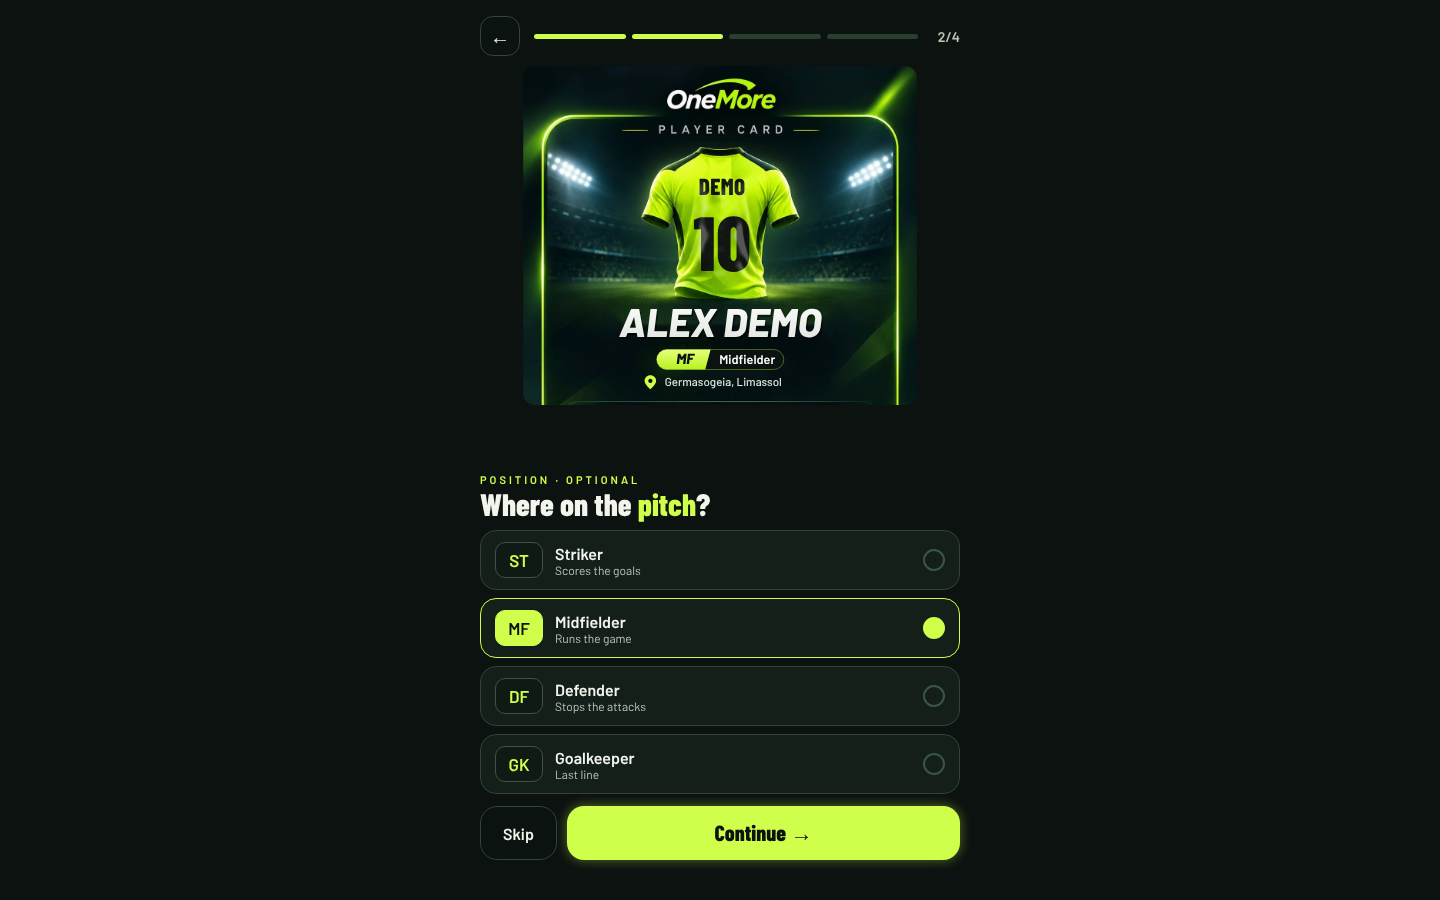
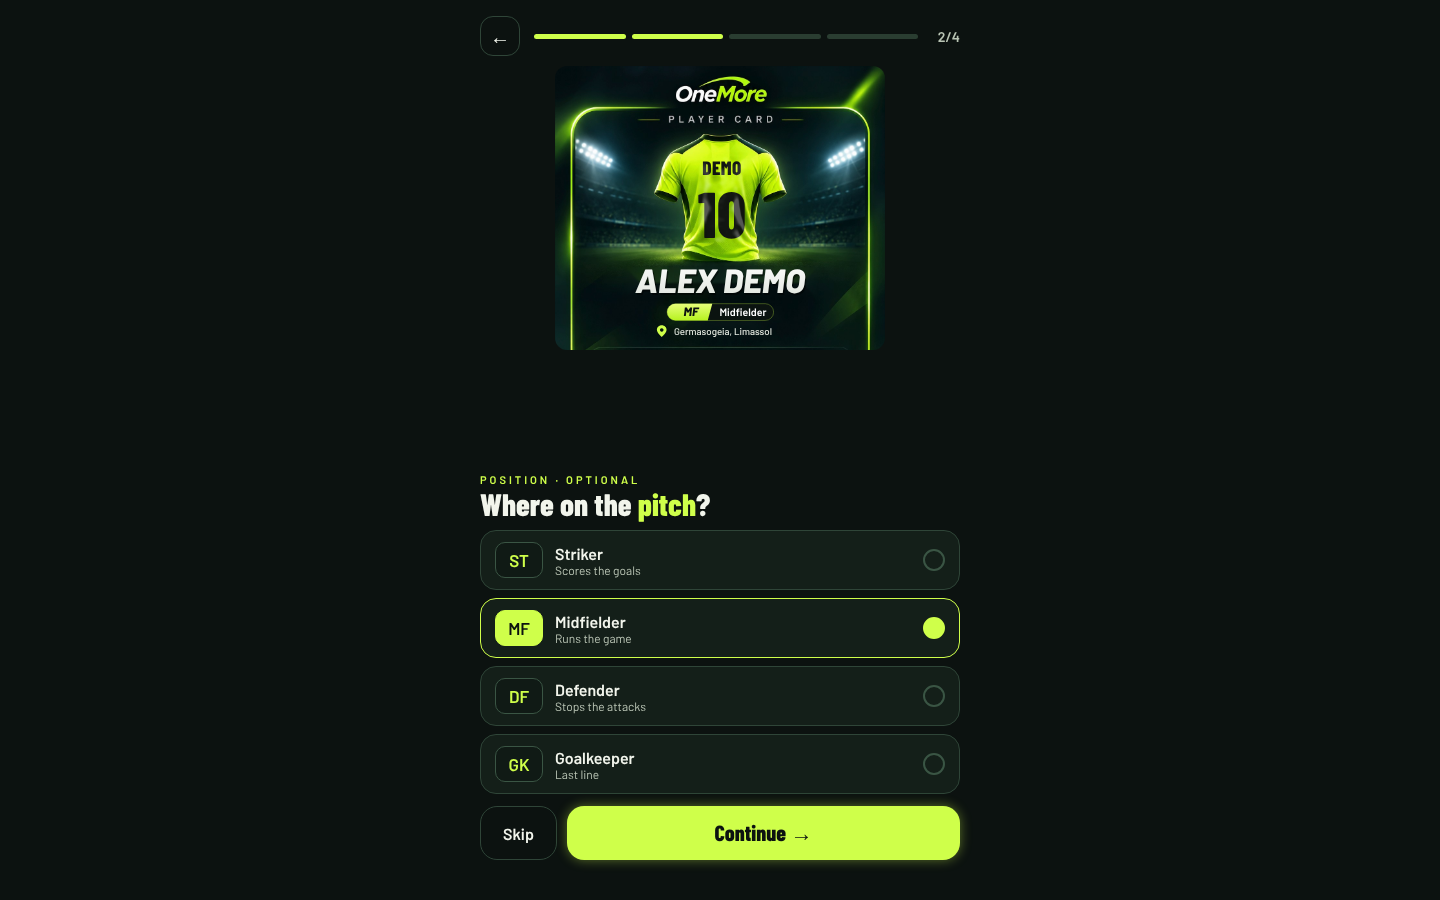
fix: onboarding steps fit one screen with no scrolling
Area chips wrap again instead of scrolling sideways; the card slot reserves
room for the city with the most area rows so every step, city and screen size
fits without scrolling and the footer keeps its bottom margin.

Claude-Session: https://claude.ai/code/session_018Y2DJcCxNRruUAufNUxVdN

Changed region(s): [[0.3438, 0.0622, 0.6562, 0.4667]]

diff --git a/src/features/profile/PlayerOnboarding.tsx b/src/features/profile/PlayerOnboarding.tsx
@@ -71,7 +71,11 @@ const headerHeight = 40;
 const footerHeight = 54;
 const columnGap = 10;
 /** Room kept for the controls of the tallest step; the card takes the rest. */
-const controlsReserve = 250;
+const minControlsReserve = 250;
+/** Step one without its area chips: name, shirt number, city, labels and gaps. */
+const firstStepControls = 212;
+/** One row of wrapped area chips and the gap under it. */
+const areaRowHeight = 38;
 const minSlotHeight = 190;
 const compactSlotHeight = 72;
 
@@ -108,6 +112,29 @@ export function PlayerOnboarding() {
   );
   const locationOptions = useMemo(() => filterCityAreaOptions(cities, areas), [cities, areas]);
   const visibleAreas = locationOptions.areas.filter((area) => area.city_id === form.cityId);
+  // The first step is the tallest, and its area chips wrap onto more rows for some cities.
+  // Reserving room for the city with the most rows keeps the card slot, and so every step,
+  // the same size whichever city is chosen, and keeps all of it on one screen.
+  const areaRowsMost = useMemo(() => {
+    const rowWidth = Math.min(width - (width < 400 ? 16 : 20) * 2, 480);
+    const charWidth = locale === 'el' ? 7.6 : 7.1;
+    let most = 1;
+    for (const item of locationOptions.cities) {
+      let rows = 1;
+      let used = 0;
+      for (const place of locationOptions.areas.filter((area) => area.city_id === item.id)) {
+        const chip = (locale === 'en' ? place.name_en : place.name_el).length * charWidth + 26;
+        if (used > 0 && used + 6 + chip > rowWidth) {
+          rows += 1;
+          used = chip;
+        } else {
+          used += (used > 0 ? 6 : 0) + chip;
+        }
+      }
+      most = Math.max(most, rows);
+    }
+    return most;
+  }, [locale, locationOptions, width]);
   const city = cities.find((item) => item.id === form.cityId);
   const area = areas.find((item) => item.id === form.areaId);
   const done = step > stepCount - 1;
@@ -291,6 +318,10 @@ export function PlayerOnboarding() {
   // is what is left after the header, the footer and the tallest set of controls.
   const columnWidth = Math.min(width - horizontalPad * 2, 480);
   const columnHeight = measuredColumnHeight || windowHeight - topPad - bottomPad;
+  const controlsReserve = Math.max(
+    minControlsReserve,
+    firstStepControls + areaRowsMost * areaRowHeight,
+  );
   const slotHeight = keyboardVisible
     ? compactSlotHeight
     : Math.max(
@@ -572,14 +603,10 @@ export function PlayerOnboarding() {
                       {visibleAreas.length === 0 ? (
                         <Text style={own.muted}>{copy.profileNoAreas}</Text>
                       ) : (
-                        <ScrollView
-                          horizontal
-                          showsHorizontalScrollIndicator={false}
-                          keyboardShouldPersistTaps="handled"
+                        <View
                           accessibilityRole="radiogroup"
                           accessibilityLabel={copy.profileArea}
-                          style={own.areaScroll}
-                          contentContainerStyle={own.areaRow}
+                          style={own.areaRow}
                         >
                           {visibleAreas.map((item) => (
                             <Pressable
@@ -599,7 +626,7 @@ export function PlayerOnboarding() {
                               </Text>
                             </Pressable>
                           ))}
-                        </ScrollView>
+                        </View>
                       )}
                     </View>
                   ) : null}
@@ -1279,8 +1306,7 @@ function makeStyles(
       paddingHorizontal: 2,
     },
     chipText: { color: colors.textPrimary, fontFamily: semibold, fontSize: 12.5 },
-    areaScroll: { flexGrow: 0 },
-    areaRow: { flexDirection: 'row', gap: 6, paddingRight: 8 },
+    areaRow: { flexDirection: 'row', flexWrap: 'wrap', gap: 6 },
     areaChip: {
       height: 34,
       paddingHorizontal: 11,
